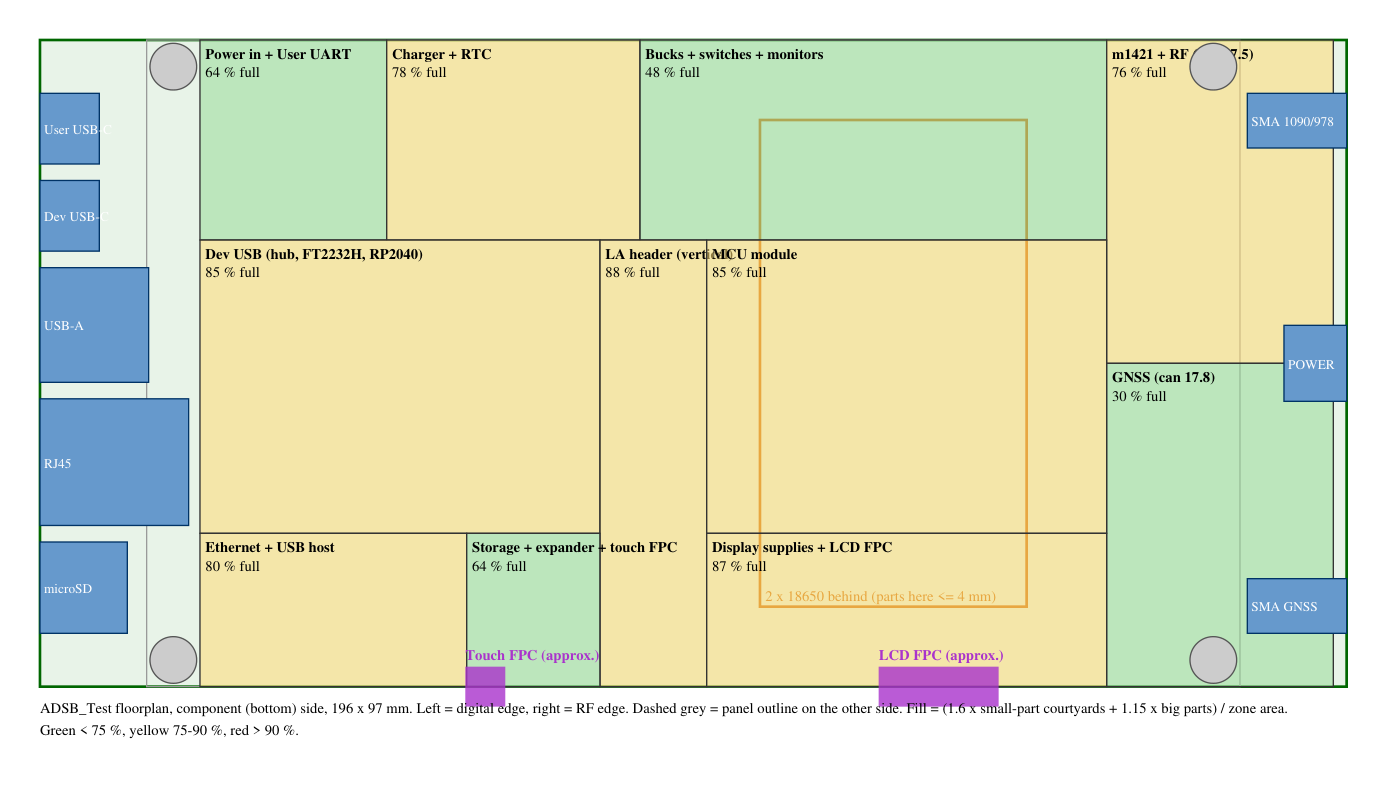
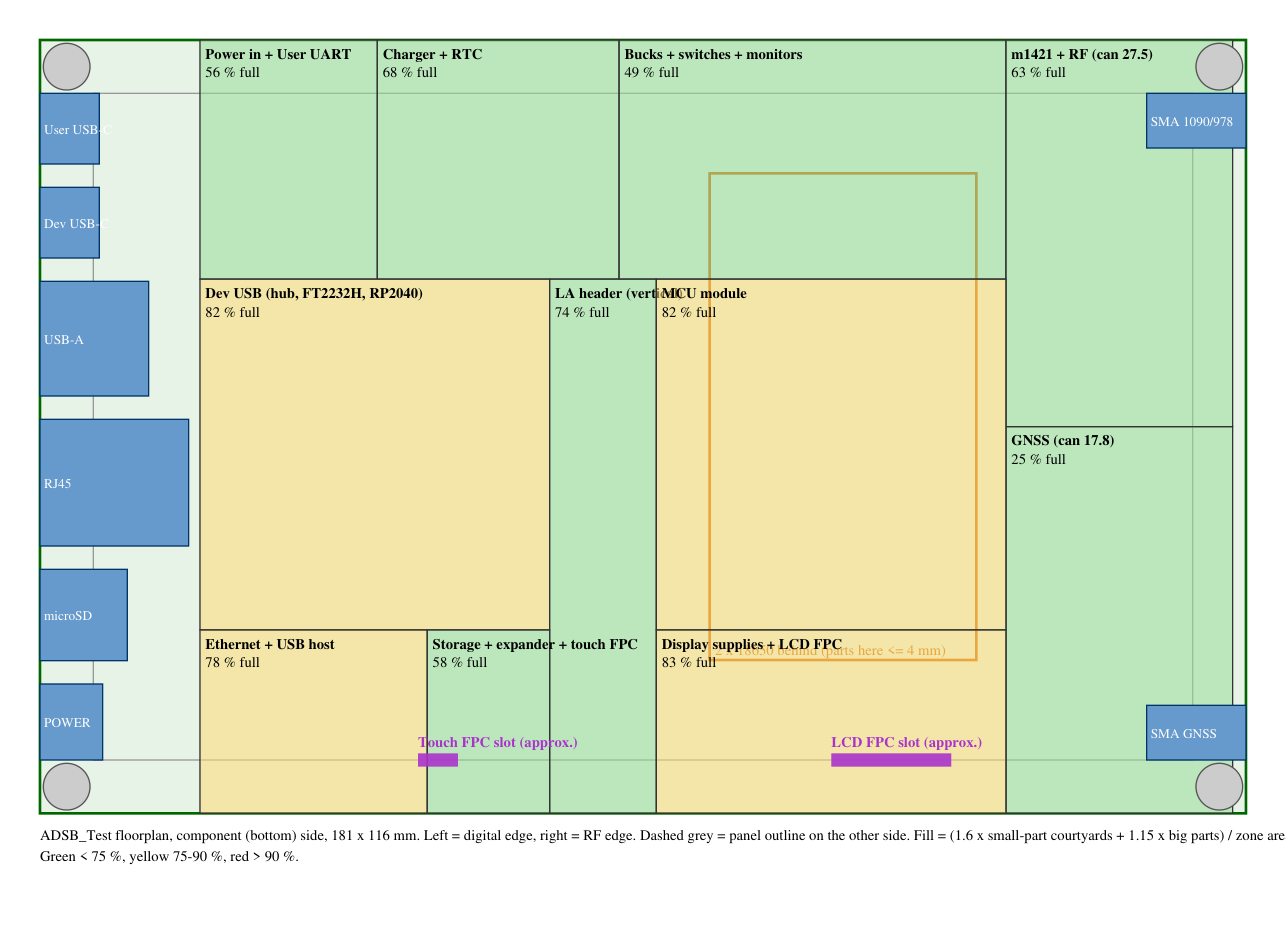
ADSB_Test floorplan: panel centred with 8 mm gap all round (180.9 x 116 mm)

diff --git a/boards/adsb-test/hardware/floorplan/floorplan.py b/boards/adsb-test/hardware/floorplan/floorplan.py
@@ -20,8 +20,7 @@ HERE = Path(__file__).resolve().parent
 sys.path.insert(0, str(HERE))
 from areas import parts  # noqa: E402
 
-W, H = 188.0, 97.0             # board, mm (override: --size WxH)
-PANEL_X0 = 12.0                # panel/PCB-area starts 12 mm in from the digital edge
+W, H = 180.9, 116.0            # board, mm: panel 164.9 x 100 + 8 mm all round (override: --size WxH)
 K = 1.6                        # spacing + routing factor for small parts
 FIXED = 1.15                   # factor for big parts (fan-out only)
 BIG = 150.0                    # courtyard mm2 above which a part is "fixed"
@@ -30,46 +29,54 @@ HOLE_KEEPOUT = 3.5             # mm radius (M2.5 screw head + clearance)
 # Edge connectors: (ref, edge, along-edge size, depth, label); spread evenly between the hole keep-outs
 EDGE_PARTS = [("J201", "L", 10.6, 8.9, "User USB-C"), ("J1001", "L", 10.6, 8.9, "Dev USB-C"),
               ("J1101", "L", 17.2, 16.3, "USB-A"), ("J801", "L", 19.0, 22.3, "RJ45"),
-              ("J1501", "L", 13.7, 13.1, "microSD"),
-              ("J1403", "R", 8.2, 14.9, "SMA 1090/978"), ("SW401", "R", 11.4, 9.4, "POWER"),
+              ("J1501", "L", 13.7, 13.1, "microSD"), ("SW401", "L", 11.4, 9.4, "POWER"),
+              ("J1403", "R", 8.2, 14.9, "SMA 1090/978"),
               ("J1201", "R", 8.2, 14.9, "SMA GNSS")]
 
 
+PANEL_W, PANEL_H = 164.9, 100.0   # 7" panel outline (AliExpress 1024x600 MIPI drawing; Waveshare 164.28 x 99.17 lens)
+
+
 def layout(w, h):
-    """Zone rectangles for a w x h board (bands: power on top, logic in the middle, display at the
-    bottom long edge where the panel FPCs fold over, RF column at the RF edge)."""
-    global W, H, HOLES, EDGE, BATTERY
+    """Zone rectangles for a w x h board with the panel centred on the other side.
+    Bands: power on top, logic in the middle, display + Ethernet at the bottom (panel cables fold
+    through slots at the panel's bottom edge), RF column at the RF edge."""
+    global W, H, HOLES, EDGE, BATTERY, FPC
     W, H = w, h
-    x0p = (W - 164) / 2                                   # panel centred between the two short edges
-    top = 30 + (H - 97)                                   # extra height goes to the power band
-    HOLES = [(x0p + 4, H - 93), (x0p + 160, H - 93), (x0p + 4, H - 4), (x0p + 160, H - 4)]
+    x0p, y0p = (W - PANEL_W) / 2, (H - PANEL_H) / 2
+    cx, cy = W / 2, H / 2
+    HOLES = [(4, 4), (W - 4, 4), (4, H - 4), (W - 4, H - 4)]   # case screws in the board corners (outside the panel)
     EDGE = []
     for side in "LR":
         items = [e for e in EDGE_PARTS if e[1] == side]
-        lo, hi = H - 93 + HOLE_KEEPOUT + 0.5, H - 4 - HOLE_KEEPOUT - 0.5
+        lo, hi = 4 + HOLE_KEEPOUT + 0.5, H - 4 - HOLE_KEEPOUT - 0.5        # between the corner holes
         gap = (hi - lo - sum(e[2] for e in items)) / (len(items) - 1)
         y = lo
         for ref, sd, along, depth, label in items:
             EDGE.append((ref, sd, y + along / 2, along, depth, label))
             y += along + gap
+    top = 30 * H / 97                                      # bands grow in proportion
+    bot = 23 * H / 97
     rf0 = W - 36
-    la0, la1 = 84, 100                                    # LA header column between Dev USB and the MCU
-    global FPC
-    # panel cable tails (Waveshare drawing, back view, digital edge on the left): LCD 30-pin and touch 6-pin
-    FPC = [("LCD FPC", W - x0p - 36.2 - 9, 18), ("Touch FPC", W - x0p - 113.2, 6)]
-    BATTERY = (la1 + 8, 12, la1 + 48, 85)                 # 2 x 18650 across the board, over the MCU area
+    span = rf0 - 24
+    la0 = 24 + 0.5 * (span - 16)
+    la1 = la0 + 16
+    # panel cable tails (Waveshare drawing, back view, digital edge on the left) through slots at the
+    # panel's bottom edge: LCD 30-pin and touch 6-pin
+    FPC = [("LCD FPC", W - x0p - 36.2 - 9, 18, y0p + PANEL_H), ("Touch FPC", W - x0p - 113.2, 6, y0p + PANEL_H)]
+    BATTERY = (la1 + 8, y0p + 12, la1 + 48, y0p + 85)     # 2 x 18650 across the board, over the MCU area
     return {
-        "Power in + User UART": (24, 0, 52, top, ["Power Input", "USB User"]),
-        "Charger + RTC": (52, 0, 90, top, ["Charger Battery", "RTC"]),
-        "Bucks + switches + monitors": (90, 0, rf0, top, ["Power Rails", "Power Monitor"]),
+        "Power in + User UART": (24, 0, 24 + 0.22 * span, top, ["Power Input", "USB User"]),
+        "Charger + RTC": (24 + 0.22 * span, 0, 24 + 0.52 * span, top, ["Charger Battery", "RTC"]),
+        "Bucks + switches + monitors": (24 + 0.52 * span, 0, rf0, top, ["Power Rails", "Power Monitor"]),
         "m1421 + RF (can 27.5)": (rf0, 0, W - 2, H / 2, ["M1421"]),
         "GNSS (can 17.8)": (rf0, H / 2, W - 2, H, ["GPS"]),
-        "Dev USB (hub, FT2232H, RP2040)": (24, top, la0, H - 23, ["USB Dev"]),
+        "Dev USB (hub, FT2232H, RP2040)": (24, top, la0, H - bot, ["USB Dev"]),
         "LA header (vertical)": (la0, top, la1, H, ["Test Debug"]),
-        "MCU module": (la1, top, rf0, H - 23, ["MCU Module"]),
-        "Ethernet + USB host": (24, H - 23, 64, H, ["Ethernet", "USB Host"]),
-        "Storage + expander + touch FPC": (64, H - 23, la0, H, ["Storage Misc"]),
-        "Display supplies + LCD FPC": (la1, H - 23, rf0, H, ["Display Touch"]),
+        "MCU module": (la1, top, rf0, H - bot, ["MCU Module"]),
+        "Ethernet + USB host": (24, H - bot, 24 + 0.65 * (la0 - 24), H, ["Ethernet", "USB Host"]),
+        "Storage + expander + touch FPC": (24 + 0.65 * (la0 - 24), H - bot, la0, H, ["Storage Misc"]),
+        "Display supplies + LCD FPC": (la1, H - bot, rf0, H, ["Display Touch"]),
     }
 
 
@@ -190,7 +197,7 @@ def svg(rows, ps, sizes):
            f'font-family="Arial" font-size="11"><rect width="100%" height="100%" fill="white"/>',
            f'<g transform="translate({pad},{pad})">',
            f'<rect x="0" y="0" width="{W * s}" height="{H * s}" fill="#e8f3e8" stroke="#060" stroke-width="2"/>',
-           f'<rect x="{(W - 164) / 2 * s}" y="{(H - 97) * s}" width="{164 * s}" height="{97 * s}" fill="none" stroke="#999" '
+           f'<rect x="{(W - PANEL_W) / 2 * s}" y="{(H - PANEL_H) / 2 * s}" width="{PANEL_W * s}" height="{PANEL_H * s}" fill="none" stroke="#999" '
            f'stroke-dasharray="6,4"/>']
     bx0, by0, bx1, by1 = BATTERY
     out.append(f'<rect x="{bx0 * s}" y="{by0 * s}" width="{(bx1 - bx0) * s}" height="{(by1 - by0) * s}" '
@@ -210,10 +217,10 @@ def svg(rows, ps, sizes):
             x, y, w, h = W - depth, c - along / 2, depth, along
         out.append(f'<rect x="{x * s}" y="{y * s}" width="{w * s}" height="{h * s}" fill="#69c" stroke="#036"/>'
                    f'<text x="{x * s + 3}" y="{(y + h / 2) * s + 4}" fill="white" font-size="10">{label}</text>')
-    for label, x, wid in FPC:
-        out.append(f'<rect x="{(x - wid / 2) * s}" y="{(H - 3) * s}" width="{wid * s}" height="{6 * s}" fill="#a3c" '
-                   f'fill-opacity="0.8"/><text x="{(x - wid / 2) * s}" y="{(H - 4) * s}" fill="#a3c" '
-                   f'font-weight="bold">{label} (approx.)</text>')
+    for label, x, wid, fy in FPC:
+        out.append(f'<rect x="{(x - wid / 2) * s}" y="{(fy - 1) * s}" width="{wid * s}" height="{2 * s}" fill="#a3c" '
+                   f'fill-opacity="0.9"/><text x="{(x - wid / 2) * s}" y="{(fy - 2) * s}" fill="#a3c" '
+                   f'font-weight="bold">{label} slot (approx.)</text>')
     for hx, hy in HOLES:
         out.append(f'<circle cx="{hx * s}" cy="{hy * s}" r="{HOLE_KEEPOUT * s}" fill="#ccc" stroke="#555"/>')
     out.append(f'<text x="0" y="{H * s + 20}">ADSB_Test floorplan, component (bottom) side, {W:.0f} x {H:.0f} mm. '
@@ -236,19 +243,20 @@ if __name__ == "__main__":
     import io
     import contextlib
     ap = argparse.ArgumentParser()
-    ap.add_argument("--size", default="188x97", help="board size WxH in mm")
+    ap.add_argument("--size", default="180.9x116", help="board size WxH in mm")
     ap.add_argument("--compare", action="store_true", help="fill summary for several board sizes")
     a = ap.parse_args()
     ps = parts()
     if a.compare:
-        for size in ("188x97", "196x97", "204x97", "188x105", "196x105"):
-            w, h = map(float, size.split("x"))
+        for g in (4, 6, 8, 10, 12, 14, 16):
+            w, h = round(PANEL_W + 2 * g, 1), round(PANEL_H + 2 * g, 1)
+            size = f"{w:g}x{h:g} (gap {g})"
             ZONES = layout(w, h)
             with contextlib.redirect_stdout(io.StringIO()):
                 rows, issues = main(ps)
             worst = max(rows, key=lambda r: r[6] / r[5])
             tot = sum(r[6] for r in rows) / sum(r[5] for r in rows)
-            print(f"{size:8s} overall {100 * tot:3.0f} %  fullest: {worst[0]} {100 * worst[6] / worst[5]:.0f} %  "
+            print(f"{size:22s} overall {100 * tot:3.0f} %  fullest: {worst[0]} {100 * worst[6] / worst[5]:.0f} %  "
                   f"issues: {len(issues)}")
     w, h = map(float, a.size.split("x"))
     ZONES = layout(w, h)

diff --git a/boards/adsb-test/docs/floorplan.md b/boards/adsb-test/docs/floorplan.md
@@ -9,16 +9,17 @@ connectors, the mounting holes, the panel cables and the battery.
 Re-run after schematic changes:
 
 ```powershell
-python boards\adsb-test\hardware\floorplan\floorplan.py --compare        # several board sizes
-python boards\adsb-test\hardware\floorplan\floorplan.py --size 196x97    # table + floorplan.svg/png
+python boards\adsb-test\hardware\floorplan\floorplan.py --compare        # gap 4..16 mm round the panel
+python boards\adsb-test\hardware\floorplan\floorplan.py                  # 180.9 x 116 mm: table + floorplan.svg/png
+python boards\adsb-test\hardware\floorplan\floorplan.py --size 196x97    # any other size
 ```
 
-![Floorplan, 196 x 97 mm](../hardware/floorplan/floorplan.png)
+![Floorplan, 180.9 x 116 mm](../hardware/floorplan/floorplan.png)
 
 _Component (bottom) side; the panel is on the other side. Left = digital
 edge, right = RF edge. Orange box = where the 2 × 18650 cells sit behind the
-board (parts there ≤ 4 mm). Purple = where the panel cables fold over (Waveshare
-panel, approximate)._
+board (parts there ≤ 4 mm). Purple = slots for the panel cables (Waveshare
+panel positions, approximate). Grey circles = corner mounting holes._
 
 ## Method
 
@@ -30,56 +31,63 @@ panel, approximate)._
 - Green < 75 %, yellow 75–90 %, red > 90 % of the zone. Above about 90 % hand
   assembly gets uncomfortable.
 
-## Result
+## Board outline: panel + an even gap all round
 
-| Board | Overall fill | Fullest zone | Verdict |
-|-------|-------------|--------------|---------|
-| 188 × 97 mm (12 mm margins, current plan) | 75 % | Display supplies + LCD FPC **100 %** | Fits on paper, too tight in the middle and along the display edge |
-| **196 × 97 mm (16 mm margins)** | **72 %** | LA header column 88 % | **Recommended**: every zone under 90 % |
-| 204 × 97 mm | 69 % | 88 % | More room, longer case |
-| 188 × 105 mm (8 mm strip on the top long edge) | 70 % | 100 % | Doesn't help the crowded zones |
+The panel is 164.9 × 100 mm (the AliExpress MIPI panel drawing; the Waveshare
+lens is 164.28 × 99.17). Making the board bigger than the panel on **all four
+sides** gives an even border in the case. The panel cables then fold through
+**slots in the PCB** at the panel's bottom edge instead of round the board edge.
 
-Zones at 196 × 97 mm:
+| Gap round the panel | Board | Overall | Fullest zone |
+|---------------------|-------|---------|--------------|
+| 4 mm | 172.9 × 108 | 75 % | 96 % (too tight) |
+| 6 mm | 176.9 × 112 | 70 % | 89 % (borderline) |
+| **8 mm** | **180.9 × 116** | **66 %** | **83 %** |
+| 10 mm | 184.9 × 120 | 62 % | 77 % |
+| 12 mm | 188.9 × 124 | 59 % | 72 % |
+
+For comparison, the earlier plan (188 × 97, the panel flush with the long edges)
+is 75 % overall but 100 % along the display strip.
+
+**Recommended: 8 mm gap, board 180.9 × 116 mm** (Q28). Zones:
 
 | Zone | Size (mm) | Fill |
 |------|-----------|------|
-| Power in + User UART | 28 × 30 | 64 % |
-| Charger + RTC | 38 × 30 | 78 % |
-| Bucks + load switches + monitors | 70 × 30 | 48 % |
-| m1421 + RF (can 27.5 mm) | 34 × 48 | 76 % |
-| GNSS (can 17.8 mm) | 34 × 48 | 30 % (keep it quiet) |
-| Dev USB (hub, FT2232H, RP2040) | 60 × 44 | 85 % |
-| LA header (vertical) | 16 × 67 | 88 % |
-| MCU module | 60 × 44 | 85 % |
-| Ethernet + USB host | 40 × 23 | 80 % |
-| Storage + expander + touch FPC | 20 × 23 | 64 % |
-| Display supplies + LCD FPC | 60 × 23 | 87 % |
+| Power in + User UART | 27 × 36 | 56 % |
+| Charger + RTC | 36 × 36 | 68 % |
+| Bucks + load switches + monitors | 58 × 36 | 49 % |
+| m1421 + RF (can 27.5 mm) | 34 × 58 | 63 % |
+| GNSS (can 17.8 mm) | 34 × 58 | 25 % (keep it quiet) |
+| Dev USB (hub, FT2232H, RP2040) | 52 × 53 | 82 % |
+| LA header (vertical) | 16 × 80 | 74 % |
+| MCU module | 52 × 53 | 82 % |
+| Ethernet + USB host | 34 × 28 | 78 % |
+| Storage + expander + touch FPC | 18 × 28 | 58 % |
+| Display supplies + LCD FPC | 52 × 28 | 83 % |
 
 ## Findings
 
-1. **Make the board 196 × 97 mm** (16 mm margins on the short edges instead of
-   12). It adds 8 mm to the length of the case; nothing else changes. (Q28)
-2. **Digital edge:** User USB-C, Dev USB-C, USB-A, RJ45 and microSD need 71 mm of
-   the 82 mm between the mounting-hole keep-outs (about 2.7 mm gaps). It fits, but
-   nothing more can go on that edge. The **POWER switch moves to the RF edge**
-   (between the two SMAs: it only switches the PWR_EN signal).
-3. **Panel cables decide where the display block goes.** With the Waveshare panel
-   the right way round, the LCD cable folds over the bottom long edge about 135 mm
-   from the digital edge and the touch cable about 67 mm from it. So the display
-   supplies + 30-pin connector sit bottom-right next to the MCU (short MIPI run),
-   and the 6-pin touch connector sits in the storage zone. Measure both tail
-   positions on a spare Waveshare board before layout.
-4. **LA header** (2 × 20 shrouded, 59.5 × 10.9 mm, 9.1 mm tall) goes vertically
+1. **Board 180.9 × 116 mm**, panel centred with an 8 mm border. Shorter than the
+   earlier 188 mm, 19 mm taller.
+2. **Panel cable slots:** the LCD (30-pin) and touch (6-pin) cables pass through
+   slots at the panel's bottom edge. Position them from a measured Waveshare
+   board (or the panel that is finally used); the display supplies + 30-pin
+   connector sit next to the LCD slot, next to the MCU (short MIPI run), and the
+   6-pin touch connector next to its slot in the storage zone.
+3. **Mounting holes move to the board corners** (4 mm in). The Waveshare
+   156 × 89 mm pattern would now be under the panel.
+4. **Digital edge:** User USB-C, Dev USB-C, USB-A, RJ45, microSD **and the POWER
+   switch** need 82.5 mm of the 101 mm between the corner holes. All user
+   connectors and the switch are on one edge again.
+5. **RF edge:** only the two SMAs, far apart (GNSS and 1090/978).
+6. **LA header** (2 × 20 shrouded, 59.5 × 10.9 mm, 9.1 mm tall) stands vertically
    between the Dev USB and MCU zones, reachable with the back cover off.
-5. **Battery:** place the two 18650 cells across the board over the MCU and power
-   area. Keep the tall parts out from under them: RJ45 (13.5 mm, at the edge),
-   JST battery connector (9.8 mm), LA header (9.1 mm), USB-A (7 mm), the 150 µF
-   electrolytic (6 mm), the RF cans (5.1 mm). The BOOT/RESET buttons (B3F-1000,
-   4.3 mm) are in the MCU zone: use a low-profile tactile switch or place them
-   at the zone edge.
-6. **RJ45:** the BOM's HR911105A is full-height (13.5 mm), not the mid-mount part
-   the architecture assumed. That's fine as long as the battery isn't over it;
-   a mid-mount MagJack would only matter for a thinner case.
-7. **RF column:** 34 mm is enough for the m1421 can (27.5 mm) and keeps the
-   GNSS corner mostly empty, which is good for noise. The GNSS zone has room
-   to spare if something has to move later (only low-speed, quiet parts).
+7. **Battery:** two 18650 cells across the board over the MCU and power area.
+   Tall parts stay out from under them: RJ45 (13.5 mm, at the edge), JST battery
+   connector (9.8 mm), LA header (9.1 mm), USB-A (7 mm), the 150 µF electrolytic
+   (6 mm), the RF cans (5.1 mm). The BOOT/RESET buttons (B3F-1000, 4.3 mm) are in
+   the MCU zone: use low-profile tactile switches or place them at the zone edge.
+8. **RJ45:** the BOM's HR911105A is full-height (13.5 mm), not mid-mount. Fine as
+   long as the battery isn't over it.
+9. **GNSS corner** has room to spare (25 %): good for noise, and the place to move
+   quiet, low-speed parts if something has to give later.

diff --git a/CHANGELOG.md b/CHANGELOG.md
@@ -9,7 +9,7 @@ project uses [Semantic Versioning](https://semver.org/) (see
 ## [Unreleased]
 
 ### Added
-- ADSB_Test block floorplan check (`hardware/floorplan/`: `areas.py` courtyards from the footprints, `floorplan.py` zones, edge budget, mounting holes, panel cable landings, battery shadow; `floorplan.svg/png`) and `docs/floorplan.md`. Result: 188 × 97 mm is too tight (display strip 100 %); 196 × 97 mm puts every zone under 90 %. New open question Q28 (board size, POWER switch to the RF edge).
+- ADSB_Test block floorplan check (`hardware/floorplan/`: `areas.py` courtyards from the footprints, `floorplan.py` zones, edge budget, mounting holes, panel cable landings, battery shadow; `floorplan.svg/png`) and `docs/floorplan.md`. Result: 188 × 97 mm is too tight (display strip 100 %). With the panel (164.9 × 100 mm) centred and an even 8 mm gap all round, **180.9 × 116 mm** puts every zone at 83 % or less; panel cables through PCB slots, corner mounting holes, POWER switch back on the digital edge. Open question Q28.
 - ADSB_Test display: resistor options on LCD FPC pins 5/6 (R1322 DNP, R1323 fitted, R1324 DNP) so panels that use them as UPDN/SHLR scan-direction straps (e.g. the AliExpress 1024x600 MIPI panel the user found) can be set either way; default stays as the Waveshare panel (pin 5 high, pin 6 low).
 
 ## [0.23.0] - 2026-10-12

diff --git a/boards/adsb-test/docs/open-questions.md b/boards/adsb-test/docs/open-questions.md
@@ -7,7 +7,7 @@ the CHANGELOG.
 
 | # | Question | Current assumption |
 |---|----------|--------------------|
-| Q28 | Board size: the floorplan check (docs/floorplan.md) puts 188 × 97 mm at 100 % in the display/middle zones. Go to **196 × 97 mm** (16 mm margins on the short edges)? Also: POWER switch to the RF edge | Proposed: **196 × 97 mm**, POWER switch on the RF edge |
+| Q28 | Board outline after the floorplan check (docs/floorplan.md): panel centred with an even gap all round, cables through PCB slots, corner mounting holes, POWER switch on the digital edge | Proposed: **8 mm gap = 180.9 x 116 mm** (every zone <= 83 %). 6 mm (176.9 x 112) is borderline, 4 mm too tight |
 | Q21 | Charger: TI's BQ25792 product page and datasheet return 404 (checked 2026-10-10), while the BQ25798 (same family, adds solar MPPT) is live. Switch to BQ25798? Confirm pin/register compatibility and I2C address from its datasheet | **BQ25798** proposed (datasheet downloaded) |
 
 ## Answered

diff --git a/boards/adsb-test/docs/architecture.md b/boards/adsb-test/docs/architecture.md
@@ -517,7 +517,7 @@ Outline and case (Q20, decided 2026-10-10):
 
 | Item | Decision |
 |------|----------|
-| Board outline | Panel area 164 × 97 mm plus a **≈ 12 mm margin on each short edge**, so ≈ **188 × 97 mm** (final widths set during layout) |
+| Board outline | ~~188 × 97 mm~~. **Proposed (Q28, floorplan check): 180.9 × 116 mm**, panel centred with an 8 mm gap all round, panel cables through PCB slots, mounting holes in the board corners. See [floorplan.md](floorplan.md) |
 | Digital edge (one short edge) | User USB-C, Dev USB-C, USB-A, RJ45, microSD (mid-mount/sink-in parts, ≈ 70 mm of the 97 mm edge) |
 | RF edge (other short edge) | GNSS SMA and m1421 SMA, spaced apart |
 | C5 antenna | In the digital-edge margin, at the end **furthest from the RJ45 and USB-A metal shells** |
